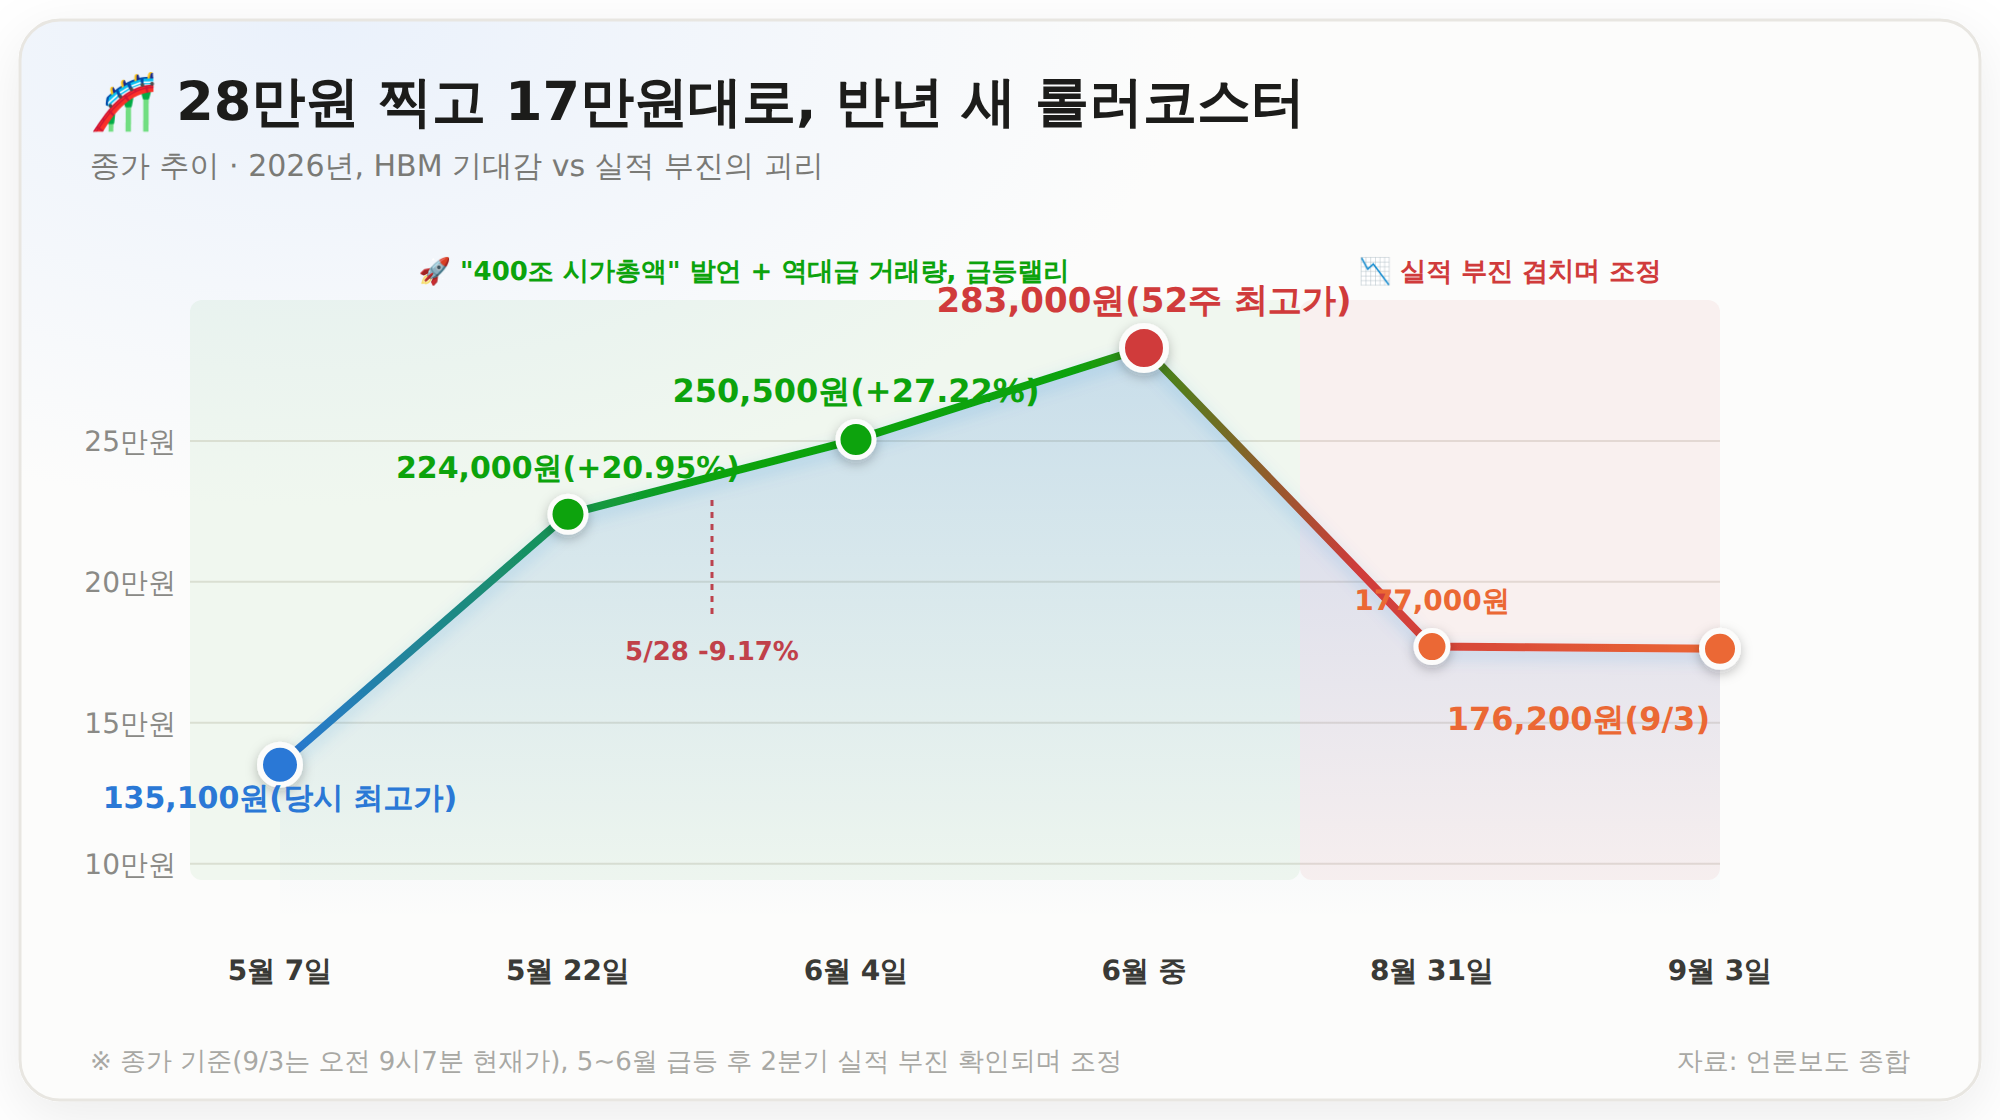
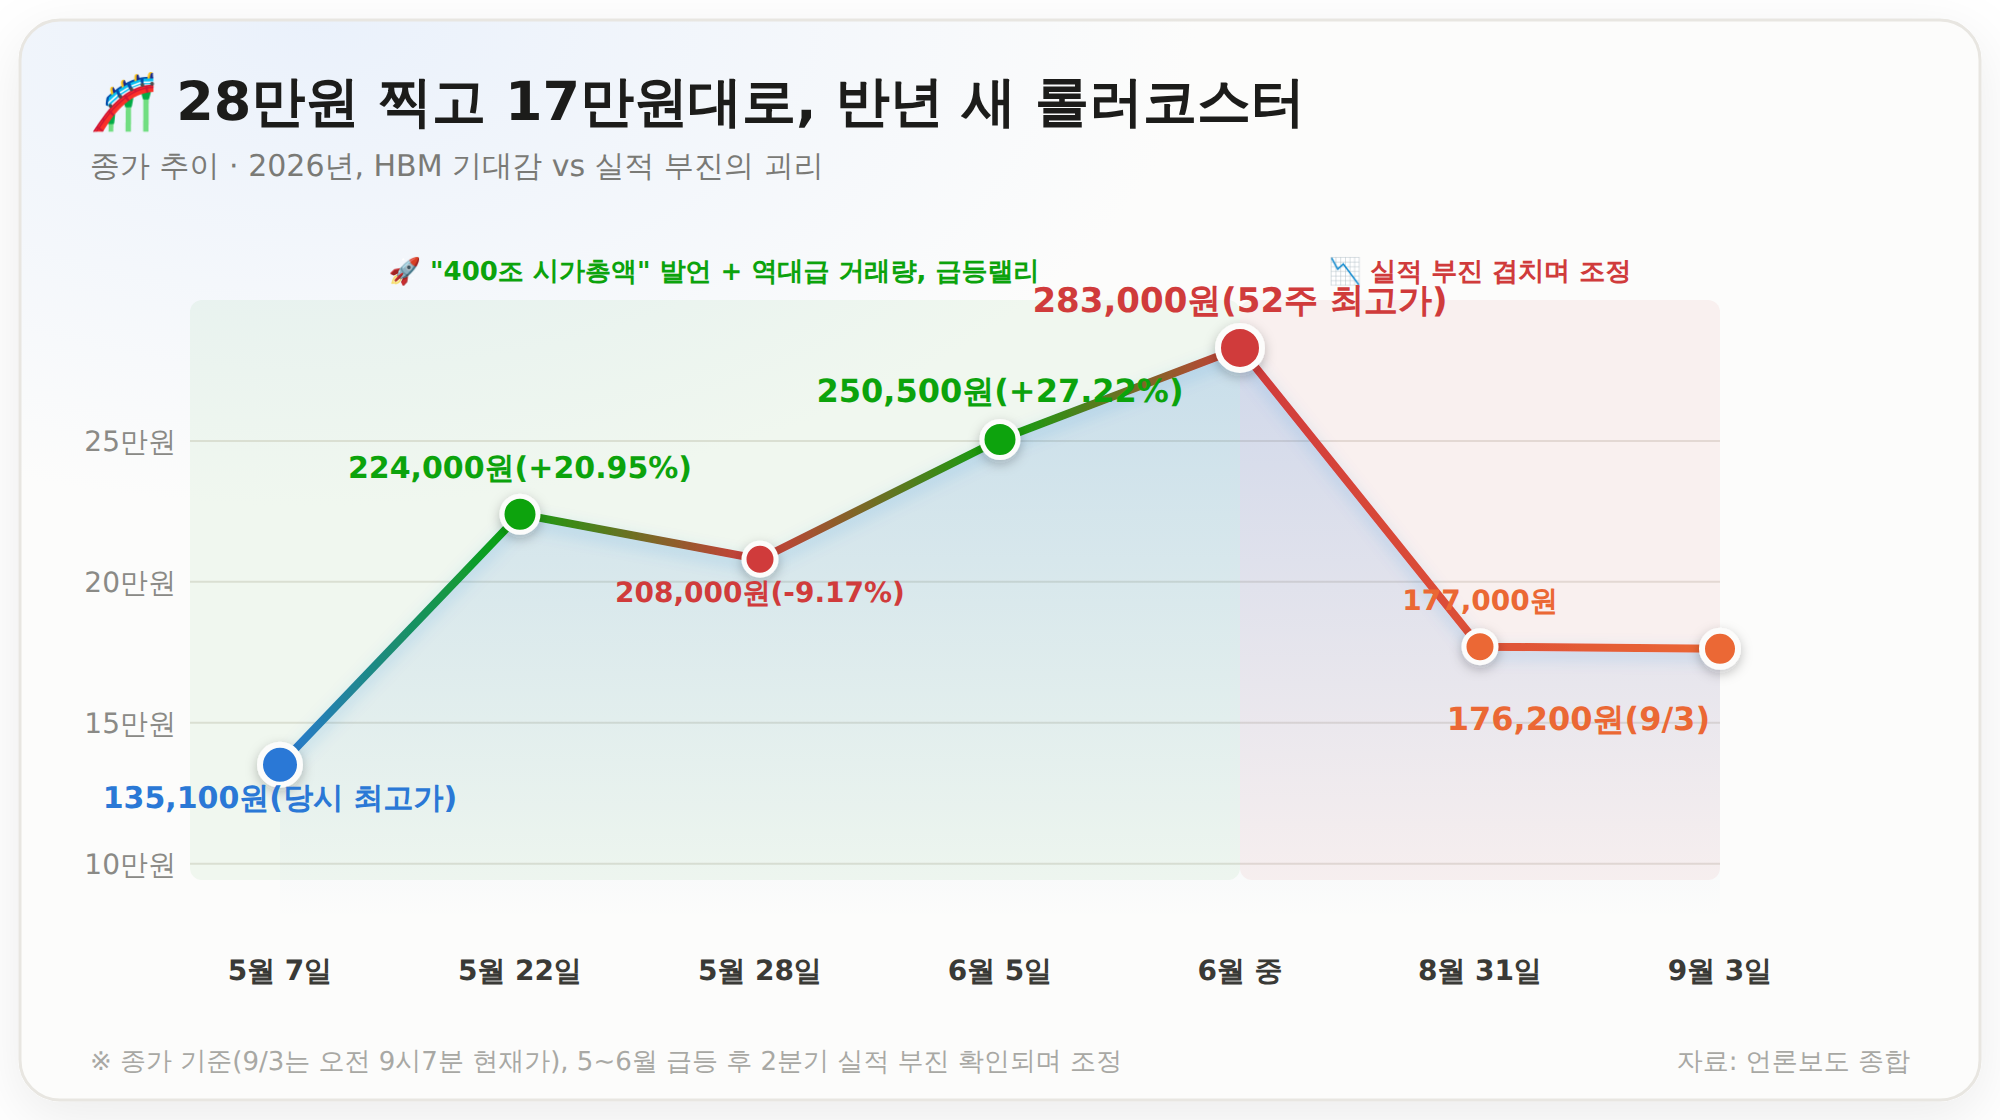
fix: 주성엔지니어링 5/28·6월 초 실제 시세 반영
사용자가 확인한 실제 시세로 정정:
- 5/28 종가 208,000원(-9.17%), 장중 235,500원까지 상승 후 반락 (기존:
  구체적 종가 없이 -9.17% 급락으로만 서술)
- 6월 4일 → 6월 5일로 날짜 정정 (종가 250,500원(+27.22%)은 동일)

가격추이 차트를 6개에서 7개 데이터 포인트로 확장해 5/28 반락을 실제
데이터 포인트로 시각화(V자 조정 구간 추가).

Claude-Session: https://claude.ai/code/session_01WzxL9fDSxe2pwdrpmEY5Nh

diff --git a/src/App.tsx b/src/App.tsx
@@ -57,11 +57,11 @@ const samplePosts: Post[] = [
 
 지난 5월 황철주 대표의 시가총액 관련 발언이 알려지며 외국인 매수세가 몰렸어요. 5월 7일 종가 135,100원으로 당시 기준 사상 최고가를 새로 쓴 데 이어, 5월 22일에는 장중 231,500원까지 오르며 52주 신고가를 경신했고 종가는 224,000원(+20.95%)을 기록했어요.
 
-![주성엔지니어링 주가 추이 차트 - 5월7일 종가 135,100원 사상최고가, 5월22일 장중 231,500원 신고가·종가 224,000원(+20.95%), 5월28일 -9.17% 급락, 6월4일 종가 250,500원(+27.22%) 역대급 거래량, 52주 최고가 283,000원, 8월31일 177,000원, 9월3일 오전 현재가 176,200원](/images/jusung-stock/jusung-price-trend.png)
+![주성엔지니어링 주가 추이 차트 - 5월7일 종가 135,100원 사상최고가, 5월22일 장중 231,500원 신고가·종가 224,000원(+20.95%), 5월28일 장중 235,500원까지 올랐다가 종가 208,000원으로 반락, 6월5일 종가 250,500원(+27.22%) 역대급 거래량, 52주 최고가 283,000원, 8월31일 177,000원, 9월3일 오전 현재가 176,200원](/images/jusung-stock/jusung-price-trend.png)
 
 ### ② 6월, 역대급 거래량과 함께 52주 최고가 28만원대 경신
 
-5월 28일에는 외국인·기관의 차익실현 매물이 쏟아지며 -9.17% 급락하기도 했지만, 6월 4일에는 역대급 거래량과 함께 종가 250,500원(+27.22%)까지 재차 치솟았어요. 이 상승 흐름 속에서 52주 최고가는 283,000원까지 올라섰어요.
+5월 28일에는 장중 한때 235,500원까지 오르기도 했지만 외국인·기관의 차익실현 매물이 쏟아지며 종가는 208,000원(-9.17%)까지 반락했어요. 하지만 6월 5일에는 역대급 거래량과 함께 종가 250,500원(+27.22%)까지 재차 치솟았고, 이 상승 흐름 속에서 52주 최고가는 283,000원까지 올라섰어요.
 
 ### ③ 이후 조정, 실적 부진 겹치며 17만원대로
 

diff --git a/posts/stock/jusung-engineering-analysis.md b/posts/stock/jusung-engineering-analysis.md
@@ -48,11 +48,11 @@ naverCategory: "국내주식"
 
 지난 5월 황철주 대표의 시가총액 관련 발언이 알려지며 외국인 매수세가 몰렸어요. 5월 7일 종가 135,100원으로 당시 기준 사상 최고가를 새로 쓴 데 이어, 5월 22일에는 장중 231,500원까지 오르며 52주 신고가를 경신했고 종가는 224,000원(+20.95%)을 기록했어요.
 
-![주성엔지니어링 주가 추이 차트 - 5월7일 종가 135,100원 사상최고가, 5월22일 장중 231,500원 신고가·종가 224,000원(+20.95%), 5월28일 -9.17% 급락, 6월4일 종가 250,500원(+27.22%) 역대급 거래량, 52주 최고가 283,000원, 8월31일 177,000원, 9월3일 오전 현재가 176,200원](/images/jusung-stock/jusung-price-trend.png)
+![주성엔지니어링 주가 추이 차트 - 5월7일 종가 135,100원 사상최고가, 5월22일 장중 231,500원 신고가·종가 224,000원(+20.95%), 5월28일 장중 235,500원까지 올랐다가 종가 208,000원으로 반락, 6월5일 종가 250,500원(+27.22%) 역대급 거래량, 52주 최고가 283,000원, 8월31일 177,000원, 9월3일 오전 현재가 176,200원](/images/jusung-stock/jusung-price-trend.png)
 
 ### ② 6월, 역대급 거래량과 함께 52주 최고가 28만원대 경신
 
-5월 28일에는 외국인·기관의 차익실현 매물이 쏟아지며 -9.17% 급락하기도 했지만, 6월 4일에는 역대급 거래량과 함께 종가 250,500원(+27.22%)까지 재차 치솟았어요. 이 상승 흐름 속에서 52주 최고가는 283,000원까지 올라섰어요.
+5월 28일에는 장중 한때 235,500원까지 오르기도 했지만 외국인·기관의 차익실현 매물이 쏟아지며 종가는 208,000원(-9.17%)까지 반락했어요. 하지만 6월 5일에는 역대급 거래량과 함께 종가 250,500원(+27.22%)까지 재차 치솟았고, 이 상승 흐름 속에서 52주 최고가는 283,000원까지 올라섰어요.
 
 ### ③ 이후 조정, 실적 부진 겹치며 17만원대로
 
